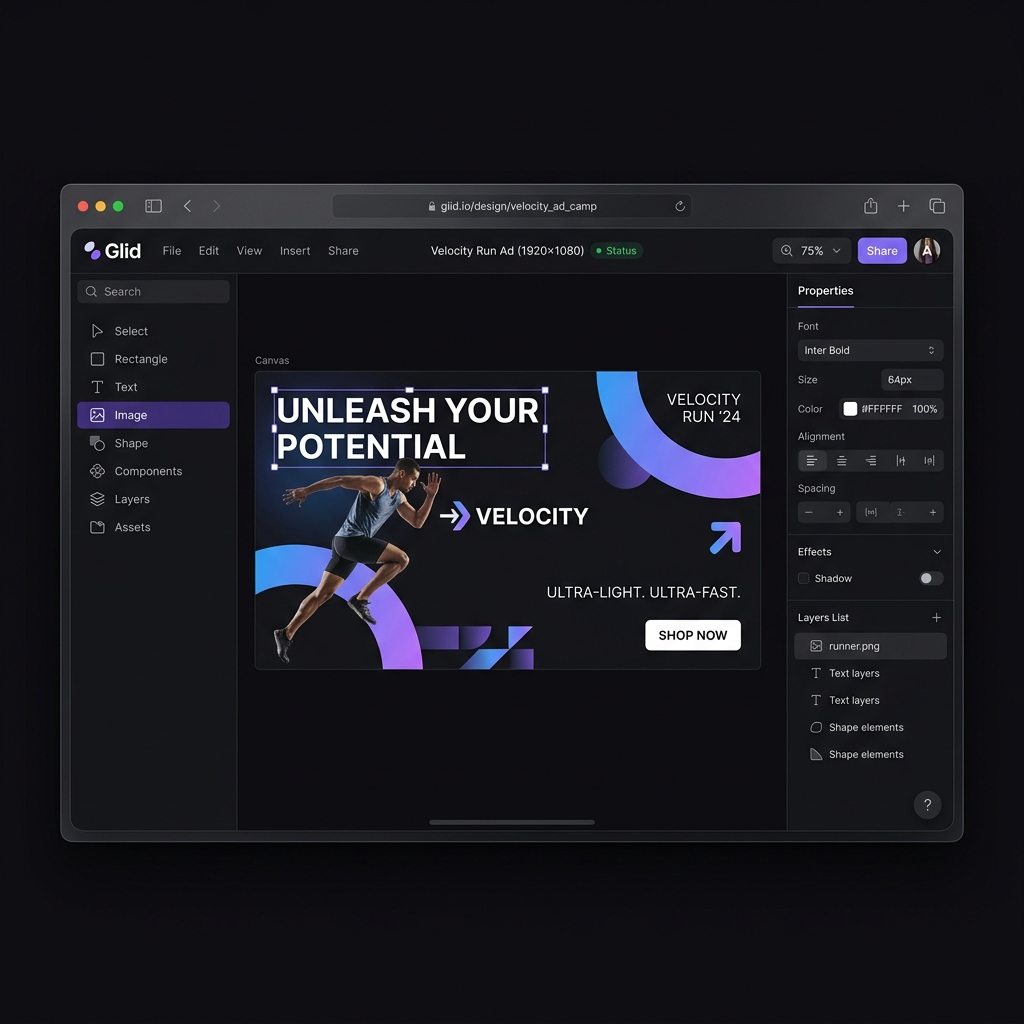
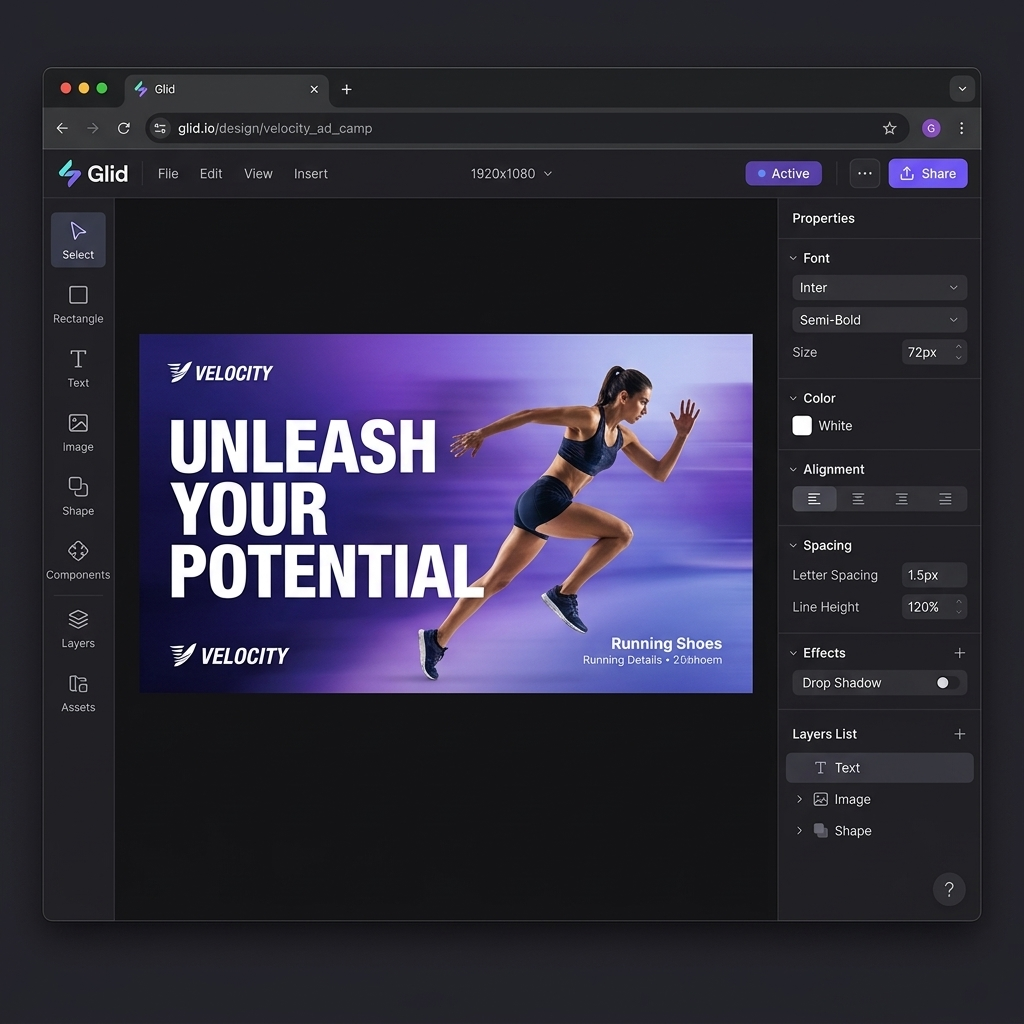
fix: login page dark theme (invisible inputs fixed), hero mockup replaced with actual app screenshot, remove pending redirect from login

diff --git a/src/app/LoginPage.tsx b/src/app/LoginPage.tsx
@@ -40,30 +40,26 @@ export function LoginPage() {
             await signUpWithEmail(email, password, name);
         }
         // Navigation handled by AuthCallback or syncSession
-        const { isAuthenticated, isApproved, user: authUser } = useAuthStore.getState();
+        const { isAuthenticated, user: authUser } = useAuthStore.getState();
         if (isAuthenticated()) {
-            if (!isApproved()) {
-                navigate('/pending', { replace: true });
-            } else {
-                // Check if user has completed onboarding (per-user)
-                const { loadUserPrefs } = await import('@/stores/userPrefs');
-                const prefs = loadUserPrefs(authUser?.id);
-                navigate(prefs.hasCompletedOnboarding ? '/dashboard' : '/onboarding', { replace: true });
-            }
+            // Check if user has completed onboarding (per-user)
+            const { loadUserPrefs } = await import('@/stores/userPrefs');
+            const prefs = loadUserPrefs(authUser?.id);
+            navigate(prefs.hasCompletedOnboarding ? '/dashboard' : '/onboarding', { replace: true });
         }
     };
 
     return (
-        <div className="landing-page" style={{ display: 'flex', alignItems: 'center', justifyContent: 'center', minHeight: '100vh' }}>
+        <div className="lp" style={{ display: 'flex', alignItems: 'center', justifyContent: 'center', minHeight: '100vh' }}>
             {/* Background glow */}
-            <div style={{ position: 'absolute', width: 600, height: 600, borderRadius: '50%', background: 'var(--landing-gradient-1)', filter: 'blur(200px)', opacity: 0.08, top: '20%', left: '30%', pointerEvents: 'none' }} />
+            <div style={{ position: 'absolute', width: 600, height: 600, borderRadius: '50%', background: 'linear-gradient(135deg, #6c63ff, #a855f7)', filter: 'blur(200px)', opacity: 0.08, top: '20%', left: '30%', pointerEvents: 'none' }} />
 
             <div style={{
                 width: '100%',
                 maxWidth: 420,
                 padding: 40,
-                background: 'var(--landing-card)',
-                border: '1px solid var(--landing-card-border)',
+                background: 'rgba(255, 255, 255, 0.03)',
+                border: '1px solid rgba(255, 255, 255, 0.08)',
                 borderRadius: 20,
                 backdropFilter: 'blur(40px)',
                 position: 'relative',
@@ -71,7 +67,7 @@ export function LoginPage() {
                 {/* Logo */}
                 <div style={{ textAlign: 'center', marginBottom: 32 }}>
                     <GlidLogo size={32} onClick={() => navigate('/')} />
-                    <div style={{ fontSize: 15, color: 'var(--landing-text-muted)' }}>
+                    <div style={{ fontSize: 15, color: '#94a3b8', marginTop: 8 }}>
                         {mode === 'signin' ? 'Welcome back' : 'Create your account'}
                     </div>
                 </div>
@@ -111,9 +107,9 @@ export function LoginPage() {
 
                 {/* Divider */}
                 <div style={{ display: 'flex', alignItems: 'center', gap: 12, marginBottom: 24 }}>
-                    <div style={{ flex: 1, height: 1, background: 'var(--landing-card-border)' }} />
-                    <span style={{ fontSize: 12, color: 'var(--landing-text-muted)' }}>or</span>
-                    <div style={{ flex: 1, height: 1, background: 'var(--landing-card-border)' }} />
+                    <div style={{ flex: 1, height: 1, background: 'rgba(255, 255, 255, 0.08)' }} />
+                    <span style={{ fontSize: 12, color: '#94a3b8' }}>or</span>
+                    <div style={{ flex: 1, height: 1, background: 'rgba(255, 255, 255, 0.08)' }} />
                 </div>
 
                 {/* Email Form */}
@@ -157,7 +153,7 @@ export function LoginPage() {
                         disabled={isLoading}
                         style={{
                             padding: '12px 16px', borderRadius: 12,
-                            background: 'linear-gradient(135deg, var(--landing-gradient-1), var(--landing-accent-2))',
+                            background: 'linear-gradient(135deg, #6c63ff, #a855f7)',
                             color: '#fff', border: 'none', fontSize: 14, fontWeight: 600,
                             cursor: isLoading ? 'wait' : 'pointer',
                             opacity: isLoading ? 0.7 : 1,
@@ -169,12 +165,12 @@ export function LoginPage() {
                 </form>
 
                 {/* Toggle */}
-                <div style={{ textAlign: 'center', marginTop: 24, fontSize: 13, color: 'var(--landing-text-muted)' }}>
+                <div style={{ textAlign: 'center', marginTop: 24, fontSize: 13, color: '#94a3b8' }}>
                     {mode === 'signin' ? "Don't have an account? " : 'Already have an account? '}
                     <button
                         onClick={() => setMode(mode === 'signin' ? 'signup' : 'signin')}
                         style={{
-                            background: 'none', border: 'none', color: 'var(--landing-accent-2)',
+                            background: 'none', border: 'none', color: '#a855f7',
                             cursor: 'pointer', fontSize: 13, fontWeight: 600, padding: 0,
                         }}
                     >

diff --git a/src/version.ts b/src/version.ts
@@ -4,4 +4,4 @@
 // ★ RULE: Increment BUILD number before every `git push`.
 // Format: v{major}.{minor}.{patch}.{build}
 
-export const APP_VERSION = 'v0.0.0.345';
+export const APP_VERSION = 'v0.0.0.346';
